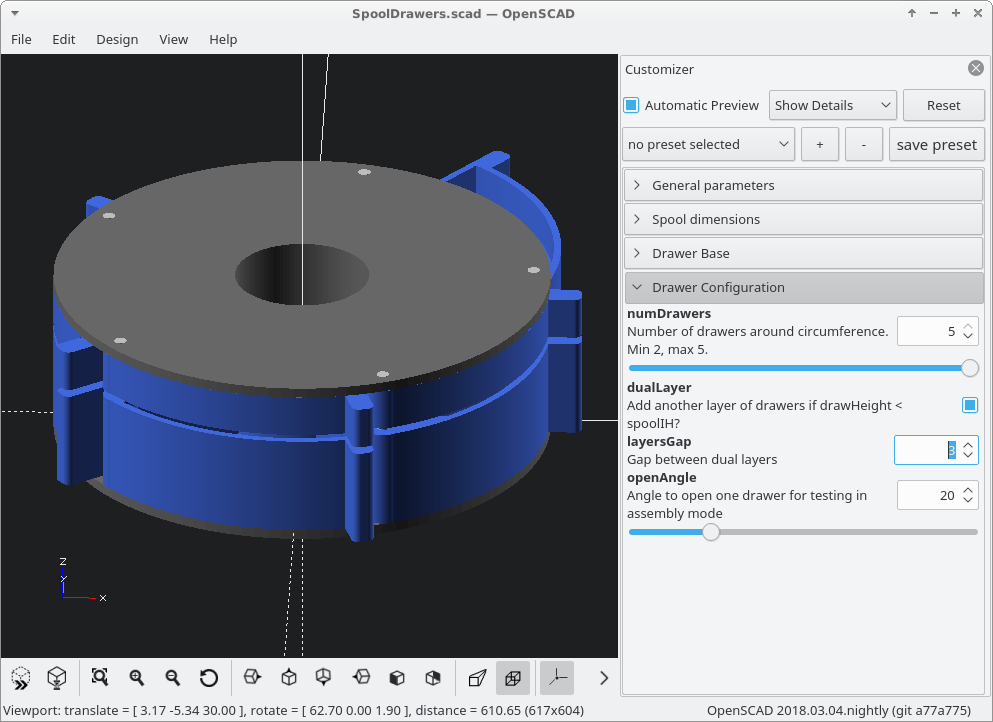
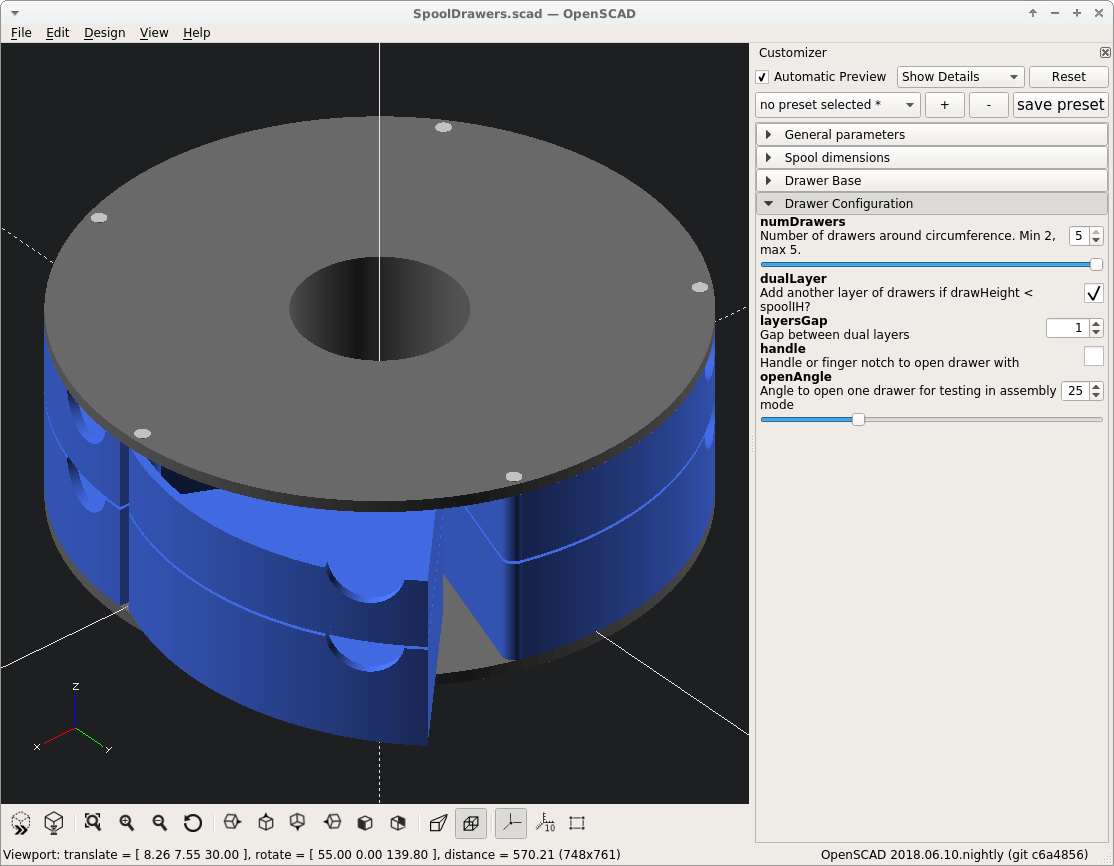
SpoolDrawers: Fix hinge hole position and add finger notch option.

diff --git a/Things/Tools/SpoolDrawers/README.md b/Things/Tools/SpoolDrawers/README.md
@@ -4,9 +4,10 @@ Putting empty filament spools to good use
 **Table of Contents**
 1. [Introduction](#introduction)
 2. [Features](#features)
-3. [Usage](#usage)
-4. [Finishing off](#finishing-off)
-5. [Pictures](#pictures)
+3. [Versions](#versions)
+4. [Usage](#usage)
+5. [Finishing off](#finishing-off)
+6. [Pictures](#pictures)
 
 Introduction
 ------------
@@ -51,17 +52,21 @@ Features
   drawers will be drawn in print mode.
 * Can generate a thin tester outline of the drawer to test fit the spool
   before final print.
-* Can generate a template for exact drilling of the hinge holes in the
+* Can generate templates for exact drilling of the hinge holes in the
   spool. See note below.
 * Color support in assembly mode.
 
-**Note on the template option:**  
-The SVG and DFX exports in the current nightly build of OpenSCAD I'm using
-does not seem to be working, so the only way to use the template from here
-is to export as STL and then import into some 3D CAD program, like FreeCAD,
-generate a solid from the STL, and then a top view drawing. This drawing can
-then be exported to PDF and printed on paper. Hope this would be easier in a
-future version of OpenSCAD :-)
+[TOC]
+
+----
+
+Versions
+--------
+* **v1.0** - First release
+* **v1.1** - Fixed bug in generating the hinge holes and add option for finger
+             notch instead of handle. With the changes in the hinge hole
+             generation, drawers created with the same parameters in v1.0 will
+             **not** align with v1.1 and later drawers!
 
 [TOC]
 
@@ -100,7 +105,10 @@ your spool holder and requirements. The general order is normally:
    Here you can also select or unselect _dual layers_ if `drawHeight` is not
    zero.  
    With dual layers, you can also adjust the gap between the layers with the
-   `layersGap` parameter.
+   `layersGap` parameter.  
+   Here you also select whether to have a handle (original) or newer finger
+   notch option for access to open drawer. The default now is the finger notch
+   since it prints quicker and saves plastic.
    ![Drawer Config][drawerconf]  
 
 5. In `assembly` mode, you can simulate opening one of the drawers by adjusting
@@ -119,21 +127,44 @@ your spool holder and requirements. The general order is normally:
    ![Test Mode][testmode]  
 
 8. Once you are ready to generate the STLs for printing, change the mode to
-   `print` in the **General parameters** section. If you have dual layers, then
-   a model for one drawer from each layer will be generated.  
+   `print` in the **General parameters** section. If you have dual drawer
+   layers, then a model for one drawer from each layer will be generated.  
    ![Print Mode][printmode]  
 
-9. While the drawers are printing, you can generate the hinge drill template by
-   setting the mode to `template` in the **General parameters** section. This
-   will generate a 1mm thick template that fits on the spool outside and gives
-   the exact drill locations.  
-   The idea is to export this as a DWG or SVG file, then print a 2D copy at the
-   exact dimension on paper as a template. My current version of OpenSCAD does
-   not do the export to SVG or DWG, so I have to generate and STL from this
-   template. The STL I then import into FreeCAD, make it a solid and then crate
-   a top view drawing from this solid. This I then print to paper as the
-   template. Hopefully this will be resolved in a future version of OpenSCAD.
-   ![Template Mode][templatemode]  
+9. To drill holes in the exact spots for the hinges in the spool, you can
+   generate a template by setting the mode to one of the `template?` modes in
+   the **General parameters** section.:
+   ![Template1 Mode][template1mode]  
+   ![Template2 Mode][template2mode]  
+   ![Template3 Mode][template3mode]  
+
+   Templates 2 and 3 could be 3D printed if your print area is large enough and
+   you want a template that can be used on future spools of the same size.
+   Template1 you probably do not want to print.
+
+   Another option is to export the template as a DWG or SVG file, then print a
+   2D copy at the exact dimension on paper as a template. My current version of
+   OpenSCAD does not do the export to SVG or DWG, so this does not help.
+
+   One way around that is to export a **top view**, as large as possible on
+   screen, to and image format like PNG from OpenSCAD. I then open this PNG in
+   the [Gimp], but almost any other image manipulation program should do.
+
+   Once opened, I crop the image right at the edges to ensure that the edges of
+   my spool template fills the width/height of the image, resulting in a square
+   image with the spool edges at the image edges.
+
+   Since template2 does not represent the full spool outline, this method is not
+   recommended for that template.
+
+   With the spool outline filling image, and knowing the diameter of the spool,
+   it is now a simple matter of scaling the image to be equal to the exact spool
+   diameter in both X and Y directions. The [Gimp] allows entering millimeter
+   sizes for scaling, so this makes it very easy.  
+   ![Gimp crop and scale][gimpcropscale]  
+
+   From here the image can be manipulated (remove the black, for example) and
+   printed to the correct scale on paper.
 
 [TOC]
 
@@ -192,6 +223,7 @@ Pictures
 [color]: https://en.wikibooks.org/wiki/OpenSCAD_User_Manual/Transformations#color
 [spool holders]: https://www.thingiverse.com/thing:596838
 [Sylvain Rochette]: https://www.thingiverse.com/labidus/about
+[Gimp]: https://www.gimp.org/
 
 <!-- Image links -->
 [assymode]: images/AssemblyMode.png
@@ -202,4 +234,7 @@ Pictures
 [draweropen]: images/DrawerAngle.png "Open Drawer. Also note drawerHeight is set and dual layer is off."
 [testmode]: images/TesterMode.png
 [printmode]: images/PrintMode.png "This is dual layers. Single layer will generate only one drawer."
-[templatemode]: images/TemplateMode.png
+[template1mode]: images/Template1Mode.png
+[template2mode]: images/Template2Mode.png
+[template3mode]: images/Template3Mode.png
+[gimpcropscale]: images/GimpCrop.png
